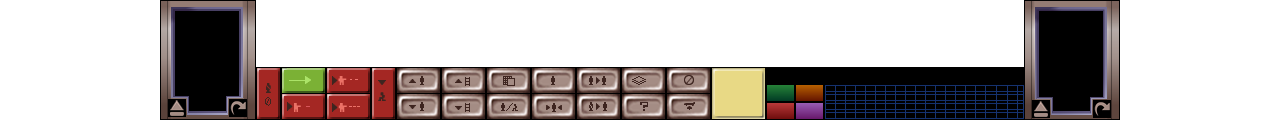
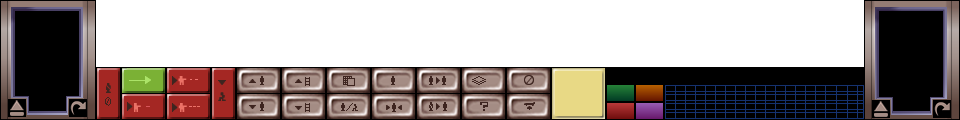
small changes
HD improvements and correction for button coordinates

diff --git a/src/Battlescape/InventoryState.cpp b/src/Battlescape/InventoryState.cpp
@@ -55,9 +55,9 @@
 namespace OpenXcom
 {
 
-static const int _templateBtnX = 924;
-static const int _createTemplateBtnY = 392;
-static const int _applyTemplateBtnY  = 417;
+static const int _templateBtnX = 1252;
+static const int _createTemplateBtnY = 592;
+static const int _applyTemplateBtnY  = 617;
 
 /**
  * Initializes all the elements in the Inventory screen.
@@ -86,7 +86,7 @@ InventoryState::InventoryState(bool tu, BattlescapeState *parent) : _tu(tu), _pa
 	_soldier = new Surface(121, 215, 109, 115);
 	_rank = new Surface(26, 23, 5, 5); //added for the rank icon
 	_txtName = new Text(400, 17, 40, 10);
-	_txtItem = new Text(160, 9, 8, 310);
+	_txtItem = new Text(160, 15, 8, 310);
 	_txtAmmo = new Text(80, 24, 8, 432);
 	_btnPrev = new BattlescapeButton(23, 22, 1180, 5);
 	_btnOk = new BattlescapeButton(35, 22, 1208, 5);
@@ -98,83 +98,83 @@ InventoryState::InventoryState(bool tu, BattlescapeState *parent) : _tu(tu), _pa
 	_btnApplyTemplate = new BattlescapeButton(32, 22, _templateBtnX, _applyTemplateBtnY);
 	_selAmmo = new Surface(RuleInventory::HAND_W * RuleInventory::SLOT_W, RuleInventory::HAND_H * RuleInventory::SLOT_H, 8, 325);
 	_inv = new Inventory(_game, 1280, 800, 0, 0, _parent == 0);
-	_txtRank = new Text(100, 10, 10, 38); // added
-	_txtMissions = new Text(100, 10, 135, 38); // added
-	_txtKills = new Text(100, 10, 255, 38); // added
-	_txtStatus = new Text(100, 10, 380, 38); // added
-	_txtCraft = new Text(150, 10, 505, 38); // added
-	_txtArmor = new Text(150, 10, 630, 38); // added
+	_txtRank = new Text(100, 14, 10, 38); // added
+	_txtMissions = new Text(100, 14, 135, 38); // added
+	_txtKills = new Text(100, 14, 255, 38); // added
+	_txtStatus = new Text(100, 14, 380, 38); // added
+	_txtCraft = new Text(150, 14, 505, 38); // added
+	_txtArmor = new Text(150, 14, 630, 38); // added
 
-	_txtTimeUnits = new Text(120, 10, 803, 87);
-	_numTimeUnits = new Text(18, 10, 936, 87);
+	_txtTimeUnits = new Text(120, 14, 803, 87);
+	_numTimeUnits = new Text(18, 14, 936, 87);
 	_barTimeUnits = new Bar(200, 8, 955, 87);
 
-	_txtEnergy = new Text(120, 10, 803, 102);
-	_numEnergy = new Text(18, 10, 936, 102);
+	_txtEnergy = new Text(120, 14, 803, 102);
+	_numEnergy = new Text(18, 14, 936, 102);
 	_barEnergy = new Bar(200, 8, 955, 102);
 
-	_txtHealth = new Text(120, 10, 803, 117);
-	_numHealth = new Text(18, 10, 936, 117);
+	_txtHealth = new Text(120, 14, 803, 117);
+	_numHealth = new Text(18, 14, 936, 117);
 	_barHealth = new Bar(200, 8, 955, 117);
 
-	_txtFatalWounds = new Text(120, 10, 803, 132);
-	_numFatalWounds = new Text(18, 10, 936, 132);
+	_txtFatalWounds = new Text(120, 14, 803, 132);
+	_numFatalWounds = new Text(18, 14, 936, 132);
 	_barFatalWounds = new Bar(200, 8, 955, 132);
 
-	_txtBravery = new Text(120, 10, 803, 147);
-	_numBravery = new Text(18, 10, 936, 147);
+	_txtBravery = new Text(120, 14, 803, 147);
+	_numBravery = new Text(18, 14, 936, 147);
 	_barBravery = new Bar(200, 8, 955, 147);
 
-	_txtMorale = new Text(120, 10, 803, 162);
-	_numMorale = new Text(18, 10, 936, 162);
+	_txtMorale = new Text(120, 14, 803, 162);
+	_numMorale = new Text(18, 14, 936, 162);
 	_barMorale = new Bar(200, 8, 955, 162);
 
-	_txtReactions = new Text(120, 10, 803, 177);
-	_numReactions = new Text(18, 10, 936, 177);
+	_txtReactions = new Text(120, 14, 803, 177);
+	_numReactions = new Text(18, 14, 936, 177);
 	_barReactions = new Bar(200, 8, 955, 177);
 
-	_txtFiring = new Text(120, 10, 803, 192);
-	_numFiring = new Text(18, 10, 936, 192);
+	_txtFiring = new Text(120, 14, 803, 192);
+	_numFiring = new Text(18, 14, 936, 192);
 	_barFiring = new Bar(200, 8, 955, 192);
 
-	_txtThrowing = new Text(120, 10, 803, 207);
-	_numThrowing = new Text(18, 10, 936, 207);
+	_txtThrowing = new Text(120, 14, 803, 207);
+	_numThrowing = new Text(18, 14, 936, 207);
 	_barThrowing = new Bar(200, 8, 955, 207);
 
-	_txtMelee = new Text(120, 10, 803, 222);
-	_numMelee = new Text(18, 10, 936, 222);
+	_txtMelee = new Text(120, 14, 803, 222);
+	_numMelee = new Text(18, 14, 936, 222);
 	_barMelee = new Bar(200, 8, 955, 222);
 
-	_txtStrength = new Text(120, 10, 803, 237);
-	_numStrength = new Text(18, 10, 936, 237);
+	_txtStrength = new Text(120, 14, 803, 237);
+	_numStrength = new Text(18, 14, 936, 237);
 	_barStrength = new Bar(200, 8, 955, 237);
 
-	_txtPsiStrength = new Text(120, 10, 803, 252);
-	_numPsiStrength = new Text(18, 10, 936, 252);
+	_txtPsiStrength = new Text(120, 14, 803, 252);
+	_numPsiStrength = new Text(18, 14, 936, 252);
 	_barPsiStrength = new Bar(200, 8, 955, 252);
 
-	_txtPsiSkill = new Text(120, 10, 803, 267);
-	_numPsiSkill = new Text(18, 10, 936, 267);
+	_txtPsiSkill = new Text(120, 14, 803, 267);
+	_numPsiSkill = new Text(18, 14, 936, 267);
 	_barPsiSkill = new Bar(200, 8, 955, 267);
 
-	_txtFrontArmor = new Text(120, 10, 803, 297);
-	_numFrontArmor = new Text(18, 10, 936, 297);
+	_txtFrontArmor = new Text(120, 14, 803, 297);
+	_numFrontArmor = new Text(18, 14, 936, 297);
 	_barFrontArmor = new Bar(200, 8, 955, 297);
 
-	_txtLeftArmor = new Text(120, 10, 803, 312);
-	_numLeftArmor = new Text(18, 10, 936, 312);
+	_txtLeftArmor = new Text(120, 14, 803, 312);
+	_numLeftArmor = new Text(18, 14, 936, 312);
 	_barLeftArmor = new Bar(200, 8, 955, 312);
 
-	_txtRightArmor = new Text(120, 10, 803, 327);
-	_numRightArmor = new Text(18, 10, 936, 327);
+	_txtRightArmor = new Text(120, 14, 803, 327);
+	_numRightArmor = new Text(18, 14, 936, 327);
 	_barRightArmor = new Bar(200, 8, 955, 327);
 
-	_txtRearArmor = new Text(120, 10, 803, 342);
-	_numRearArmor = new Text(18, 10, 936, 342);
+	_txtRearArmor = new Text(120, 14, 803, 342);
+	_numRearArmor = new Text(18, 14, 936, 342);
 	_barRearArmor = new Bar(200, 8, 955, 342);
 
-	_txtUnderArmor = new Text(120, 10, 803, 357);
-	_numUnderArmor = new Text(18, 10, 936, 357);
+	_txtUnderArmor = new Text(120, 14, 803, 357);
+	_numUnderArmor = new Text(18, 14, 936, 357);
 	_barUnderArmor = new Bar(200, 8, 955, 357);
 
 	if (!_mindProbe)

diff --git a/src/Battlescape/BattlescapeState.cpp b/src/Battlescape/BattlescapeState.cpp
@@ -99,15 +99,15 @@ BattlescapeState::BattlescapeState() : _reserve(0), _xBeforeMouseScrolling(0), _
 	const int x = screenWidth/2 - iconsWidth/2;
 	const int y = screenHeight - iconsHeight;
 
-	// Create buttonbar - this should be on the centerbottom of the screen
+	// Create buttonbar - this should be on the centerbottom on the screen
 	_icons = new InteractiveSurface(iconsWidth, iconsHeight, x, y);
 
 	// Create the battlemap view
 	// the actual map height is the total height minus the height of the buttonbar
 	_map = new Map(_game, screenWidth, screenHeight, 0, 0, visibleMapHeight);
 
-	_numLayers = new NumberText(6, 9, x + 490, y + 76);
-	_rank = new Surface(53, 51, x + 554, y + 72);
+	_numLayers = new NumberText(6, 9, x + 473, y + 76);
+	_rank = new Surface(53, 51, x + 556, y + 72);
 
 	// Create buttons
 	_btnUnitUp = new BattlescapeButton(43, 25, x + 237, y + 68);
@@ -131,11 +131,11 @@ BattlescapeState::BattlescapeState() : _reserve(0), _xBeforeMouseScrolling(0), _
 	_btnReserveAuto = new BattlescapeButton(43, 25, x + 167, y + 94);
 	_btnReserveKneel = new BattlescapeButton(23, 51, x + 212, y + 68);
 	_btnZeroTUs = new BattlescapeButton(23, 51, x + 97, y + 68);
-	_btnLeftHandItem = new InteractiveSurface(64, 98, x + 15, y + 12);
+	_btnLeftHandItem = new InteractiveSurface(64, 98, x + 15, y + 11);
 	_numAmmoLeft = new NumberText(30, 5, x + 16, y + 12);
 	_btnLeftReload = new InteractiveSurface(18, 18, x + 8, y + 99); //Activates reload screen for left hand
 	_btnLeftReload->onMouseClick((ActionHandler)&BattlescapeState::btnLeftReloadClick);
-	//_btnLeftThrow = new ImageButton(18, 18, x + 65, y + 94);
+	//_btnLeftThrow = new ImageButton(18, 18, x + 69, y + 99);
 	_btnRightHandItem = new InteractiveSurface(64, 98, x + 879, y + 12);
 	_numAmmoRight = new NumberText(30, 5, x + 880, y + 12);
 	const int visibleUnitX = _game->getMod()->getInterface("battlescape")->getElement("visibleUnits")->x;
@@ -156,22 +156,22 @@ BattlescapeState::BattlescapeState() : _reserve(0), _xBeforeMouseScrolling(0), _
 	_btnPsi->setVisible(false);
 
 	// Create soldier stats summary
-	_txtName = new Text(267, 14, x + 607, y + 68);
+	_txtName = new Text(267, 14, x + 624, y + 70);
 
-	_numTimeUnits = new NumberText(27, 16, x + 612, y + 90);
-	_barTimeUnits = new Bar(210, 5, x + 666, y + 86);
+	_numTimeUnits = new NumberText(27, 16, x + 624, y + 85);
+	_barTimeUnits = new Bar(210, 5, x + 684, y + 86);
 
-	_numEnergy = new NumberText(15, 5, x + 641, y + 90);
-	_barEnergy = new Bar(95, 5, x + 666, y + 95);
+	_numEnergy = new NumberText(15, 5, x + 654, y + 85);
+	_barEnergy = new Bar(95, 5, x + 684, y + 95);
 
-	_numHealth = new NumberText(15, 5, x + 612, y + 108);
-	_barHealth = new Bar(95, 5, x + 666, y + 104);
+	_numHealth = new NumberText(15, 5, x + 624, y + 103);
+	_barHealth = new Bar(95, 5, x + 684, y + 104);
 
-	_numMorale = new NumberText(15, 5, x + 641, y + 108);
-	_barMorale = new Bar(95, 5, x + 666, y + 113);
+	_numMorale = new NumberText(15, 5, x + 654, y + 103);
+	_barMorale = new Bar(95, 5, x + 684, y + 113);
 
 	_txtDebug = new Text(300, 10, 20, 0);
-	_txtTooltip = new Text(300, 10, x + 97, y + 56);
+	_txtTooltip = new Text(300, 10, x + 98, y + 55);
 
 	// Set palette
 	_game->getSavedGame()->getSavedBattle()->setPaletteByDepth(this);
@@ -200,7 +200,7 @@ BattlescapeState::BattlescapeState() : _reserve(0), _xBeforeMouseScrolling(0), _
 
 	// there is some cropping going on here, because the icons image is 320x200 while we only need the bottom of it.
 	SDL_Rect *r = icons->getCrop();
-	r->x = 0;
+	r->x = 160;
 	r->y = 800 - iconsHeight;
 	r->w = iconsWidth;
 	r->h = iconsHeight;
@@ -464,10 +464,10 @@ BattlescapeState::BattlescapeState() : _reserve(0), _xBeforeMouseScrolling(0), _
 
 	_txtName->setHighContrast(true);
 
-	_barTimeUnits->setScale(1.0);
-	_barEnergy->setScale(1.0);
-	_barHealth->setScale(1.0);
-	_barMorale->setScale(1.0);
+	_barTimeUnits->setScale(1.5);
+	_barEnergy->setScale(1.5);
+	_barHealth->setScale(1.5);
+	_barMorale->setScale(1.5);
 
 	_txtDebug->setColor(Palette::blockOffset(8));
 	_txtDebug->setHighContrast(true);

diff --git a/src/Battlescape/BriefingState.cpp b/src/Battlescape/BriefingState.cpp
@@ -52,12 +52,12 @@ BriefingState::BriefingState(Craft *craft, Base *base)
 {
 	_screen = true;
 	// Create objects
-	_window = new Window(this, 320, 200, 0, 0);
-	_btnOk = new TextButton(120, 18, 100, 164);
-	_txtTitle = new Text(300, 32, 16, 24);
-	_txtTarget = new Text(300, 17, 16, 40);
-	_txtCraft = new Text(300, 17, 16, 56);
-	_txtBriefing = new Text(274, 64, 16, 72);
+	_window = new Window(this, 960, 600, 160, 100);
+	_btnOk = new TextButton(120, 18, 590, 536);
+	_txtTitle = new Text(300, 32, 500, 124);
+	_txtTarget = new Text(300, 17, 500, 140);
+	_txtCraft = new Text(300, 17, 500, 180);
+	_txtBriefing = new Text(350, 120, 500, 200);
 
 	std::string mission = _game->getSavedGame()->getSavedBattle()->getMissionType();
 	AlienDeployment *deployment = _game->getMod()->getDeployment(mission);
@@ -77,15 +77,15 @@ BriefingState::BriefingState(Craft *craft, Base *base)
 	{
 		setPalette("PAL_GEOSCAPE", 0);
 		_musicId = "GMDEFEND";
-		_window->setBackground(_game->getMod()->getSurface("BACK16.SCR"));
+		_window->setBackground(_game->getMod()->getSurface("HDBACK16.PNG"));
 	}
 	else
 	{
 		BriefingData data = deployment->getBriefingData();
 		setPalette("PAL_GEOSCAPE", data.palette);
 		_window->setBackground(_game->getMod()->getSurface(data.background));
-		_txtCraft->setY(56 + data.textOffset);
-		_txtBriefing->setY(72 + data.textOffset);
+		_txtCraft->setY(156 + data.textOffset);
+		_txtBriefing->setY(172 + data.textOffset);
 		_txtTarget->setVisible(data.showTarget);
 		_txtCraft->setVisible(data.showCraft);
 		_cutsceneId = data.cutscene;
@@ -107,7 +107,7 @@ BriefingState::BriefingState(Craft *craft, Base *base)
 	add(_txtCraft, "text", "briefing");
 	add(_txtBriefing, "text", "briefing");
 
-	centerAllSurfaces();
+
 
 	// Set up objects
 	_btnOk->setText(tr("STR_OK"));

diff --git a/src/Mod/RuleInventory.cpp b/src/Mod/RuleInventory.cpp
@@ -192,8 +192,8 @@ bool RuleInventory::fitItemInSlot(RuleItem *item, int x, int y) const
 	}
 	else if (_type == INV_GROUND)
 	{
-		int width = (320 - _x) / SLOT_W;
-		int height = (200 - _y) / SLOT_H;
+		int width = (1280 - _x) / SLOT_W;
+		int height = (800 - _y) / SLOT_H;
 		int xOffset = 0;
 		while (x >= xOffset + width)
 			xOffset += width;

diff --git a/src/Mod/RuleInventory.h b/src/Mod/RuleInventory.h
@@ -51,8 +51,8 @@ private:
 	std::map<std::string, int> _costs;
 	int _listOrder;
 public:
-	static const int SLOT_W = 16;
-	static const int SLOT_H = 16;
+	static const int SLOT_W = 26;
+	static const int SLOT_H = 26;
 	static const int HAND_W = 2;
 	static const int HAND_H = 3;
 	/// Creates a blank inventory ruleset.
